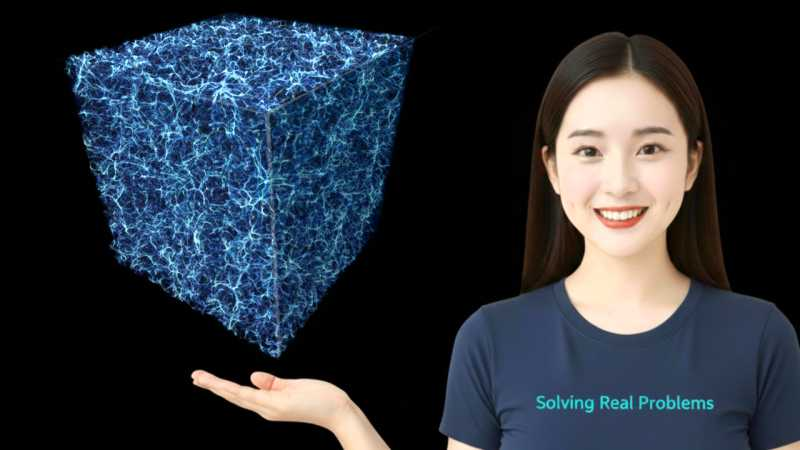
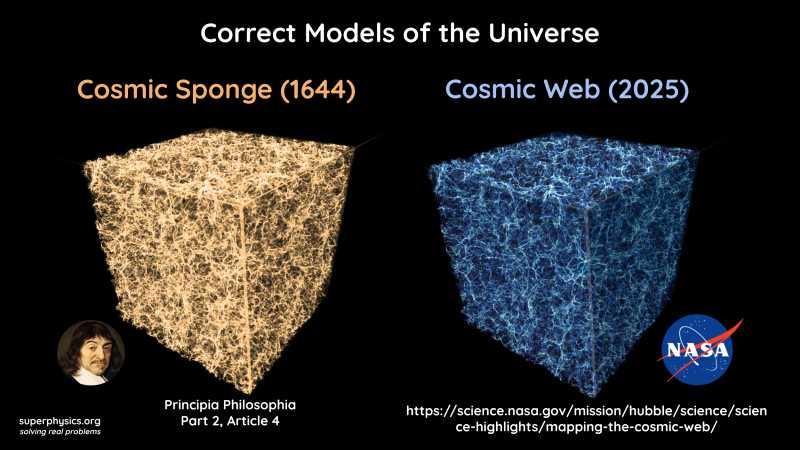
update

diff --git a/content/en/material/cmb.md b/content/en/material/cmb.md
@@ -45,6 +45,9 @@ In Cartesian terms, they are direct proof that **dark energy is aetherspace**, a
 
 These BAO “holes” in the cosmic web mirror the pores in Descartes’ **sponge model of the universe**: regions where the aether’s density or tension varies. 
 
+{{< i s="/graphics/physics/sponge2.jpg" a="Cosmic Sponge" >}}
+
+
 Unlike general relativity, which imposes strict homogeneity, Descartes’ framework naturally allows the **expansion rate of the universe to vary**—a flexibility hinted at by recent DESI survey data suggesting dark energy may change over time.
 
 Cartesian physics links the expansion of the universe to the expansion of the human mind, since the pure aether is the substance of ideas and feelings.
@@ -57,6 +60,7 @@ The universe, in other words, expands *in relation to the mind observing it*, si
 
 
 
+
 ## Galaxy Rotation Curves: Aethereal Vortices
 
 
@@ -64,9 +68,9 @@ Galaxy rotation curves show outer stars orbiting as fast as inner ones, defying 
 
 This causes astrophysics to create dark matter.
 
-Descartes’ solution instead uses aethereal vortices.
+Descartes’ solution instead uses aethereal vortices as the 2nd term that is added to Newton's Universal Law. 
 
-- Planets swim in the sea of space particles swirling around the sun. Here, the L term is a solid mass
-- Stars likewise swim around the supermassive blackhole of their galaxy. Here, the L term is an aethereal substance
+( GMm / r^2 ) + ( 3GMmL^2 / c^2 r^4 )
 
-
+- Planets swim in the sea of space particles swirling around the sun. Here, the `L` term is a solid mass
+- Stars likewise swim around the supermassive blackhole of their galaxy. Here, the `L` term is an aethereal substance
